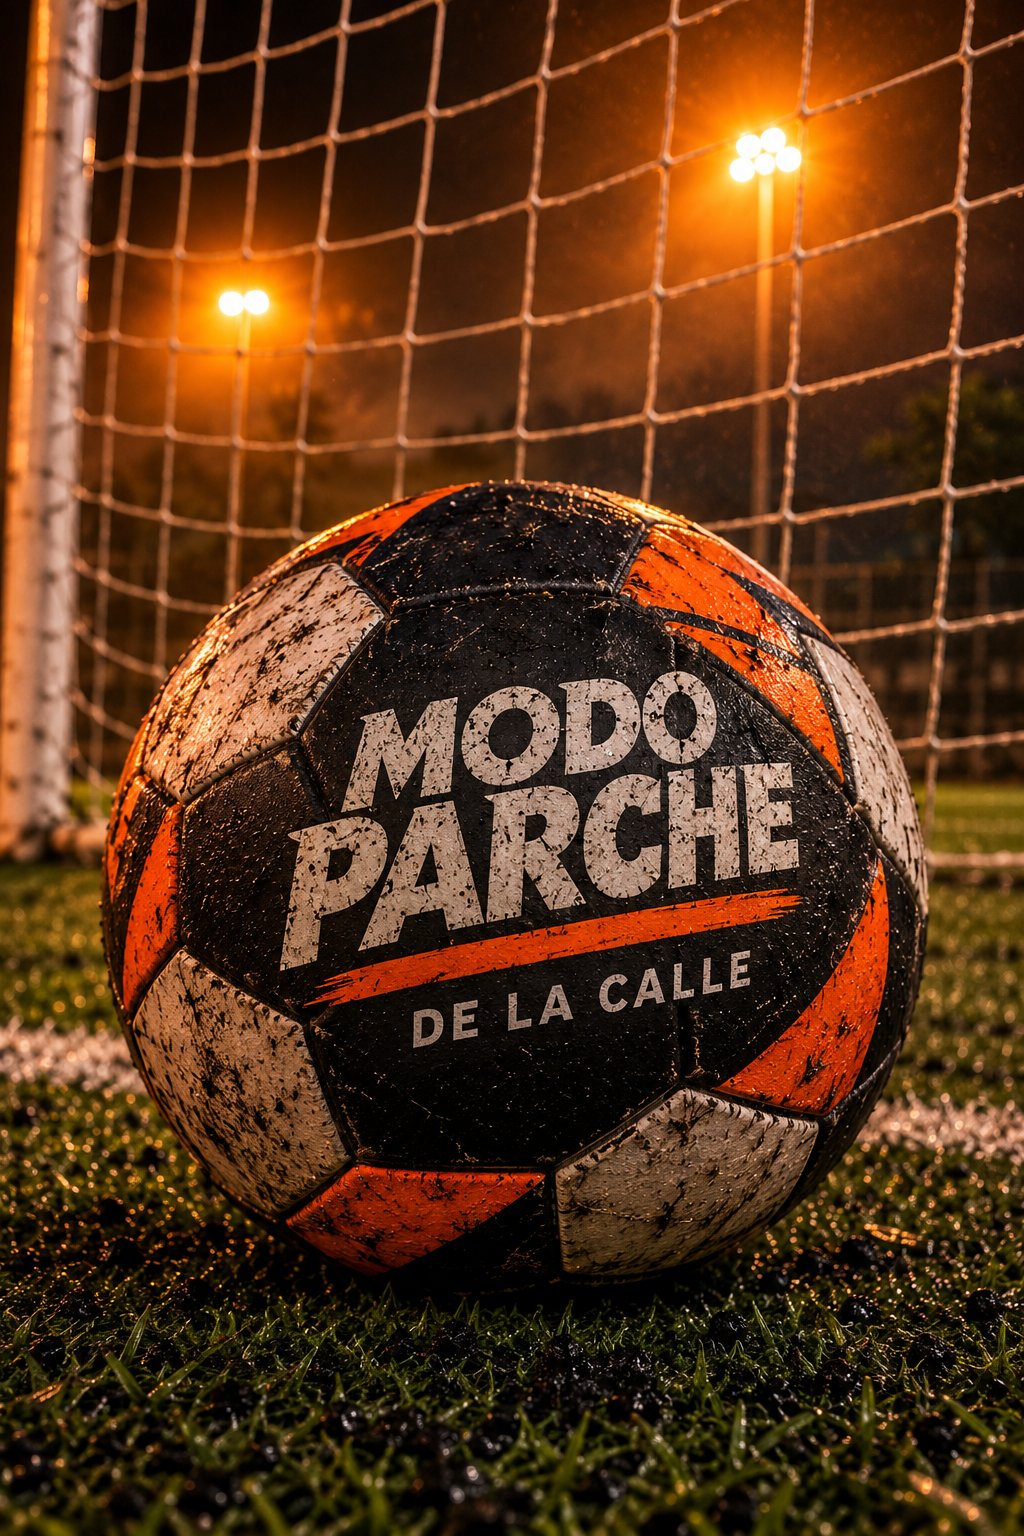
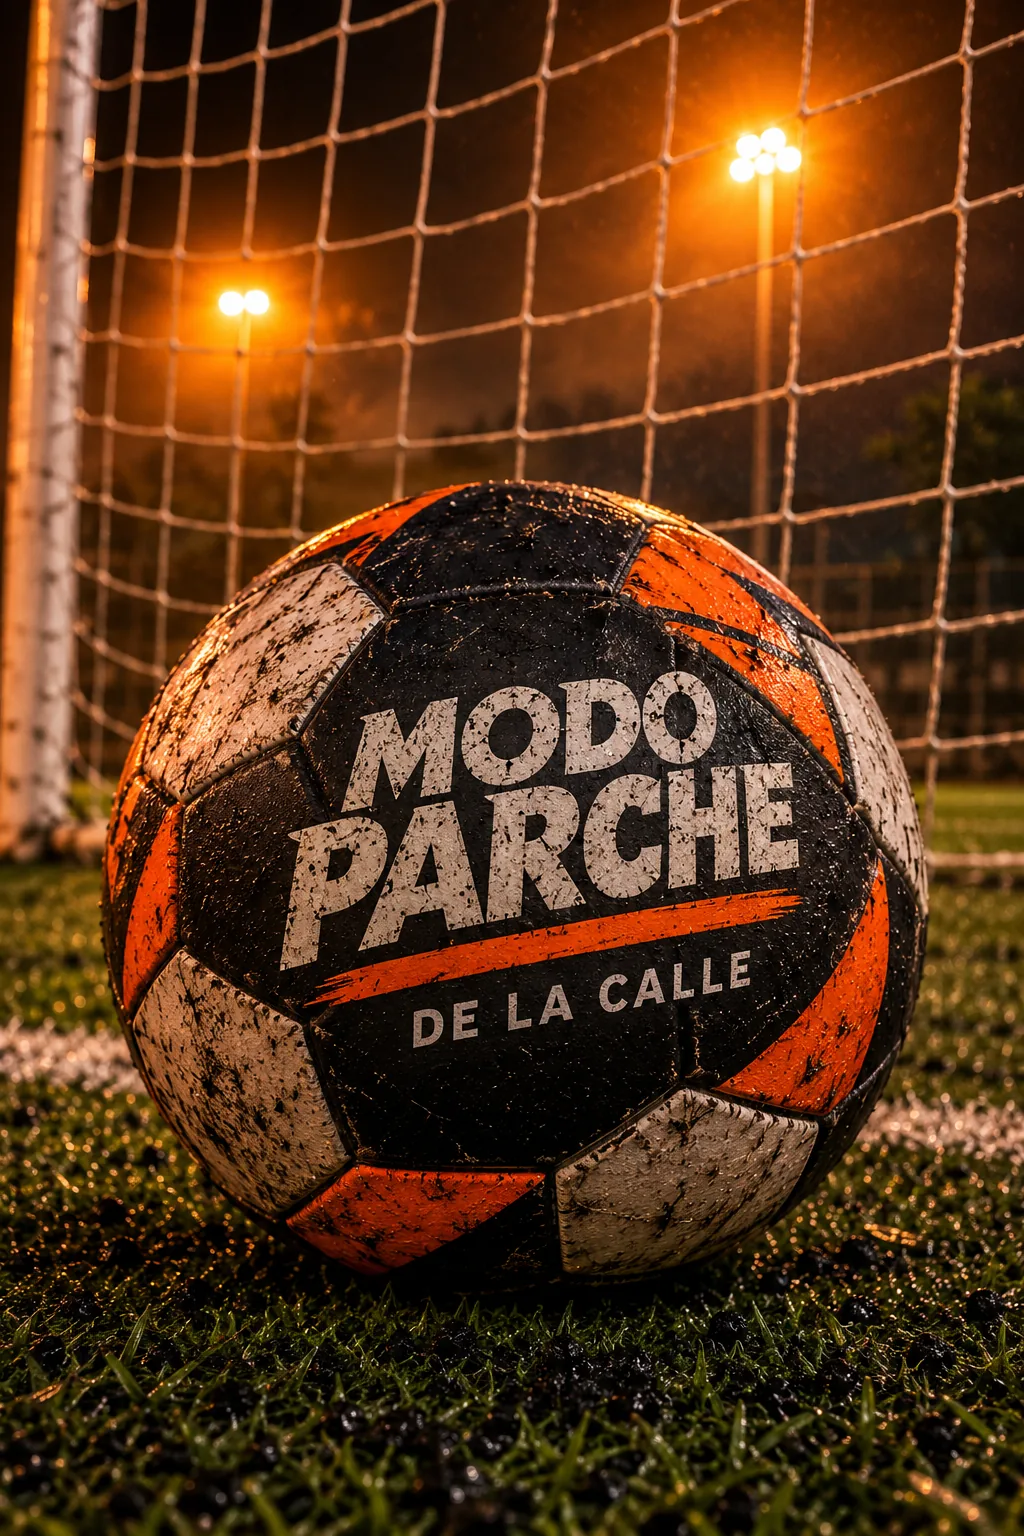
Optimiza las 11 fotos nuevas: 28 MB a 2,8 MB sin pérdida visible
Estaban en WebP sin pérdida (formato para gráficos). Se guardan como WebP de
foto, calidad 82, mismas medidas: el HTML no cambia.

Claude-Session: https://claude.ai/code/session_01KchnDAAdpDeN1xLUm9Acrd

Changed region(s): [[0.75, 0.4062, 0.7812, 0.4688], [0.3438, 0.3438, 0.375, 0.375], [0.3125, 0.625, 0.3438, 0.6562]]

diff --git a/CAMBIOS-DAVID.md b/CAMBIOS-DAVID.md
@@ -114,3 +114,8 @@ Resultado: lint 0 errores · Vitest 62/62 (58 unitarias + 318 comprobaciones SQL
 - **Botones naranjas en bloques de tinta:** en modo claro tenían texto claro sobre naranja (2,7:1). Ahora conservan su texto oscuro.
 - **No se cambió:** ningún texto legal ni funcionalidad.
 - **Archivos:** `mp-base.css`, `mp-tema.css`, `comercio.html`, `comercio.css`, `login.css`, `equipo.css`, `paginas.css`, `legal.css`.
+
+## 12. Fotos nuevas de Julián optimizadas (sin pérdida visible)
+- **Qué:** las 11 fotos que Julián agregó el 22/11 (`src/assets/web/equipo/`, `index/`, `marca/`, `negocios/`) venían en WebP **sin pérdida** (formato para gráficos), de 2,2 a 4,5 MB cada una: unos 28 MB en total, muy lento en celular.
+- **Cómo:** se volvieron a guardar como WebP de foto (calidad 82, mismas medidas, así el HTML no cambia). Total: **28 MB → 2,8 MB**. Diferencia medida con PSNR de 33 a 36 dB (no se nota) y comparada a ojo al 100 % en la más pesada (`esquina-villavo.webp`, de 4,4 MB a 632 KB).
+- **Para la próxima foto:** exportarla como WebP con pérdida (calidad 80-85) o JPG, máximo ~1.600 px de ancho; debería pesar entre 150 y 400 KB.
